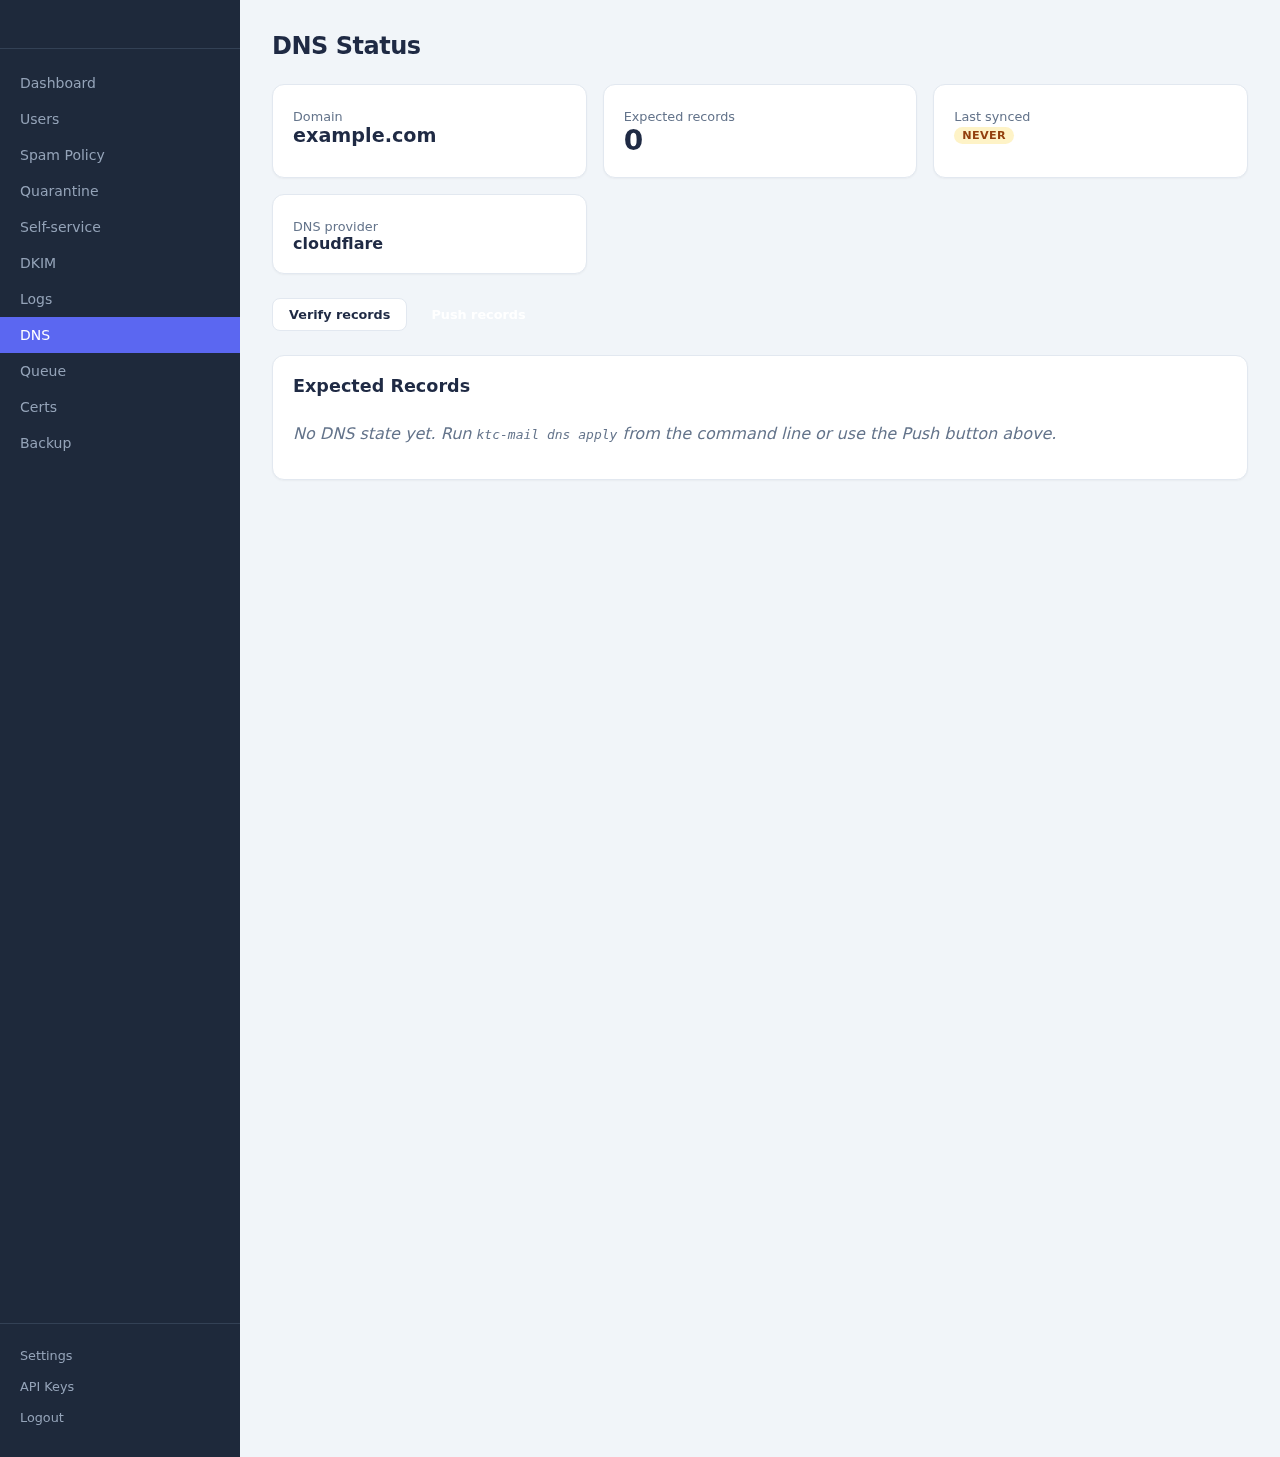
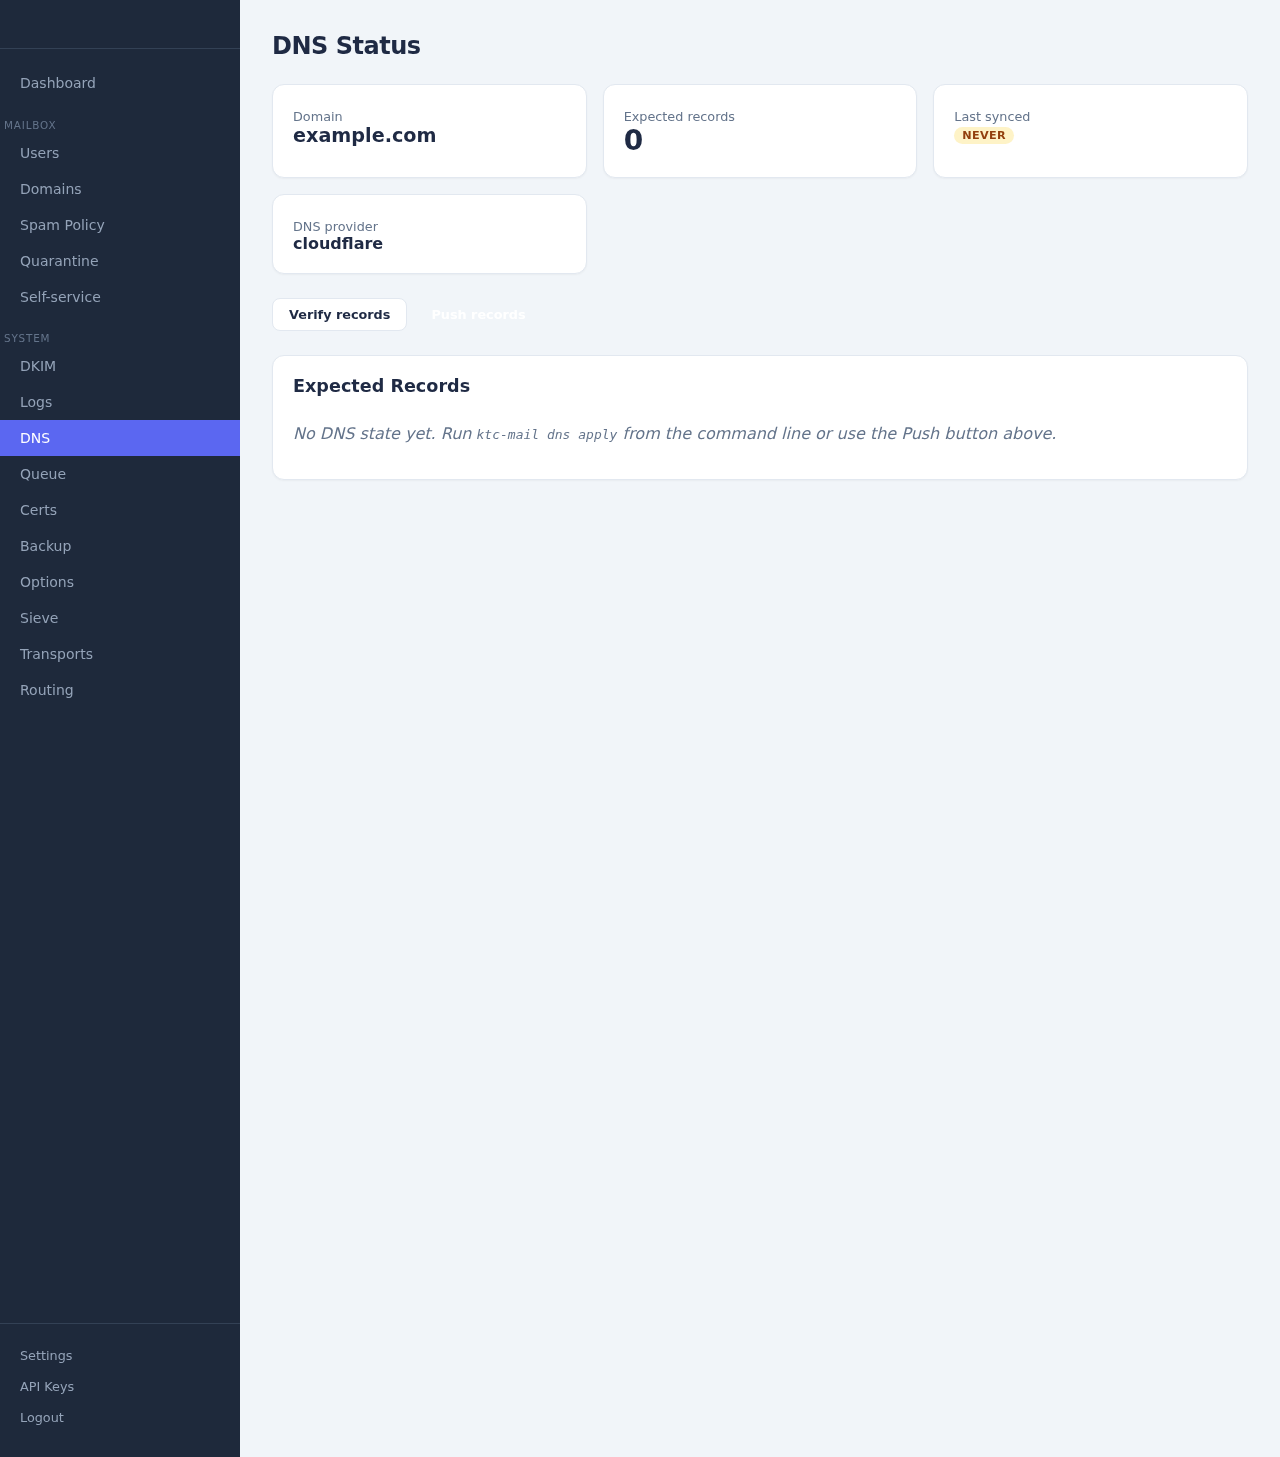
docs: regenerate 20 admin UI screenshots (incl. 5 new pages); restore capture tooling
- Capture now covers /domains, /options, /sieve-global, /transports,
  /mail-routing plus updated /users (Messages + Last login columns).
- Restored tools/screenshot_pages.py + screenshot_cdp.mjs (dev-only,
  excluded from the .deb) so screenshots are reproducible.
- branding_logo.png is the real generated binary asset (256x256).

Changed region(s): [[0.0, 0.1235, 0.1875, 0.3397], [0.0312, 0.3706, 0.0625, 0.4015]]

diff --git a/tools/screenshot_pages.py b/tools/screenshot_pages.py
@@ -1,0 +1,150 @@
+#!/usr/bin/env python3
+"""Capture screenshots of every KTC Mail admin page for the repo.
+
+Standalone dev tool — not shipped in the .deb. Seeds a throwaway config dir
+with a sample profile + admin account, boots the real FastAPI app under
+uvicorn, drives headless Chromium (CDP) to log in and screenshot each route,
+then writes PNGs to docs/screenshots/.
+
+Deps: python3 (ktc_mail_admin importable), node22 (global WebSocket), and a
+Chromium binary (point CHROME_BIN at it; defaults to the cached Playwright one).
+
+Usage: python3 tools/screenshot_pages.py
+"""
+from __future__ import annotations
+
+import os
+import shutil
+import signal
+import subprocess
+import sys
+import tempfile
+import time
+from pathlib import Path
+
+REPO = Path(__file__).resolve().parents[1]
+sys.path.insert(0, str(REPO / "src"))
+
+OUT = REPO / "docs" / "screenshots"
+PORT = 8899
+ADMIN_EMAIL = "admin@example.com"
+ADMIN_PASS = "ScreenshotDemo123!"
+
+
+def main() -> int:
+    chrome = os.environ.get("CHROME_BIN") or next(
+        (str(p) for p in sorted(
+            Path.home().glob(".cache/ms-playwright/chromium-*/chrome-linux64/chrome")
+        ) if p.exists()),
+        "chrome",
+    )
+    if not shutil.which(chrome) and not Path(chrome).exists():
+        print(f"CHROME_BIN not found ({chrome}); set CHROME_BIN to a Chromium binary")
+        return 2
+
+    work = Path(tempfile.mkdtemp(prefix="ktc-shot-"))
+    cfg = work / "etc"
+    state = work / "state"
+    cfg.mkdir(parents=True, exist_ok=True)
+    state.mkdir(parents=True, exist_ok=True)
+    os.environ["KTC_MAIL_CONFIG_DIR"] = str(cfg)
+    os.environ["KTC_MAIL_STATE_DIR"] = str(state)
+    # Local screenshot run is plain HTTP over loopback; the app sets the
+    # session cookie Secure by default, which Chrome won't send over HTTP.
+    # KTC_DEV=1 drops Secure for this throwaway capture only.
+    os.environ["KTC_DEV"] = "1"
+
+    # Seed a realistic-looking profile + admin account.
+    import ktc_mail_admin.config as C
+    from ktc_mail_admin.admin_server import hash_password, save_admin_account, save_admin_hash
+    C.save_profile(C.SetupProfile(
+        domain="example.com", admin_email=ADMIN_EMAIL,
+        dns_provider="cloudflare",
+    ))
+    C.save_branding(C.Branding(org_name="KTC Mail", accent="#5b67f1"))
+    save_admin_hash(hash_password(ADMIN_PASS))
+    save_admin_account({
+        "email": ADMIN_EMAIL, "role": "admin",
+        "password_hash": hash_password(ADMIN_PASS), "session_version": 0,
+    })
+
+    import uvicorn
+    from ktc_mail_admin.admin_server import create_app
+
+    # Minimal access log; run in a thread so we can drive the browser.
+    class _Quiet(uvicorn.logging.DefaultFormatter):
+        pass
+    config = uvicorn.Config(
+        create_app(), host="127.0.0.1", port=PORT, log_level="warning",
+    )
+    server = uvicorn.Server(config)
+    import threading
+    t = threading.Thread(target=server.run, daemon=True)
+    t.start()
+    # wait for the port to accept connections
+    import socket
+    for _ in range(50):
+        try:
+            with socket.create_connection(("127.0.0.1", PORT), timeout=0.2):
+                break
+        except OSError:
+            time.sleep(0.1)
+    else:
+        print("server did not start")
+        return 3
+
+    # Launch headless chromium with remote debugging.
+    cdp_dir = work / "chrome-profile"
+    cdp_dir.mkdir(exist_ok=True)
+    proc = subprocess.Popen(
+        [chrome, "--headless=new", "--no-sandbox", "--disable-gpu",
+         f"--user-data-dir={cdp_dir}", f"--remote-debugging-port=9222",
+         f"--window-size=1280,1600", "about:blank"],
+        stdout=subprocess.DEVNULL, stderr=subprocess.DEVNULL,
+    )
+    try:
+        for _ in range(50):
+            try:
+                with socket.create_connection(("127.0.0.1", 9222), timeout=0.2):
+                    break
+            except OSError:
+                time.sleep(0.1)
+        else:
+            print("chrome remote debugging did not come up")
+            return 4
+
+        OUT.mkdir(parents=True, exist_ok=True)
+        base = f"http://127.0.0.1:{PORT}"
+        node = shutil.which("node") or "node"
+        r = subprocess.run(
+            [node, str(REPO / "tools" / "screenshot_cdp.mjs"),
+             base, str(OUT), ADMIN_EMAIL, ADMIN_PASS],
+            capture_output=True, text=True,
+        )
+        print(r.stdout)
+        if r.returncode != 0:
+            print("NODE ERROR:", r.stderr)
+            return 5
+        # The logo is a binary asset, not a UI page — ship the real file
+        # rather than a browser screenshot of a PNG (more faithful).
+        logo_src = REPO / "src" / "ktc_mail_admin" / "static" / "branding" / "logo.png"
+        if logo_src.exists():
+            shutil.copy(logo_src, OUT / "branding_logo.png")
+            print("copied real logo -> branding_logo.png")
+    finally:
+        proc.send_signal(signal.SIGTERM)
+        try:
+            proc.wait(timeout=5)
+        except subprocess.TimeoutExpired:
+            proc.kill()
+        server.should_exit = True
+
+    shots = sorted(p.name for p in OUT.glob("*.png"))
+    print(f"wrote {len(shots)} screenshots to {OUT}")
+    for s in shots:
+        print("  -", s)
+    return 0
+
+
+if __name__ == "__main__":
+    raise SystemExit(main())
